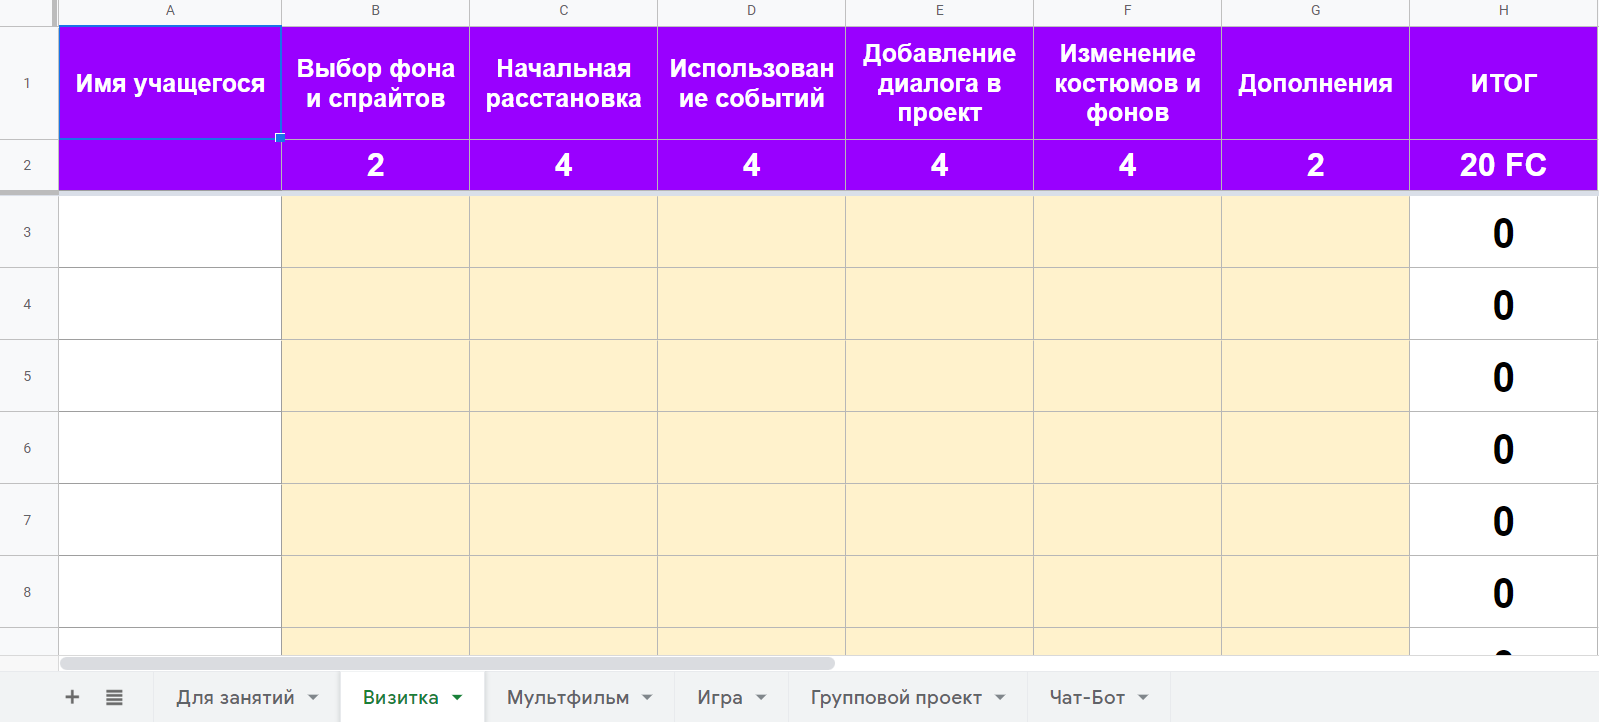
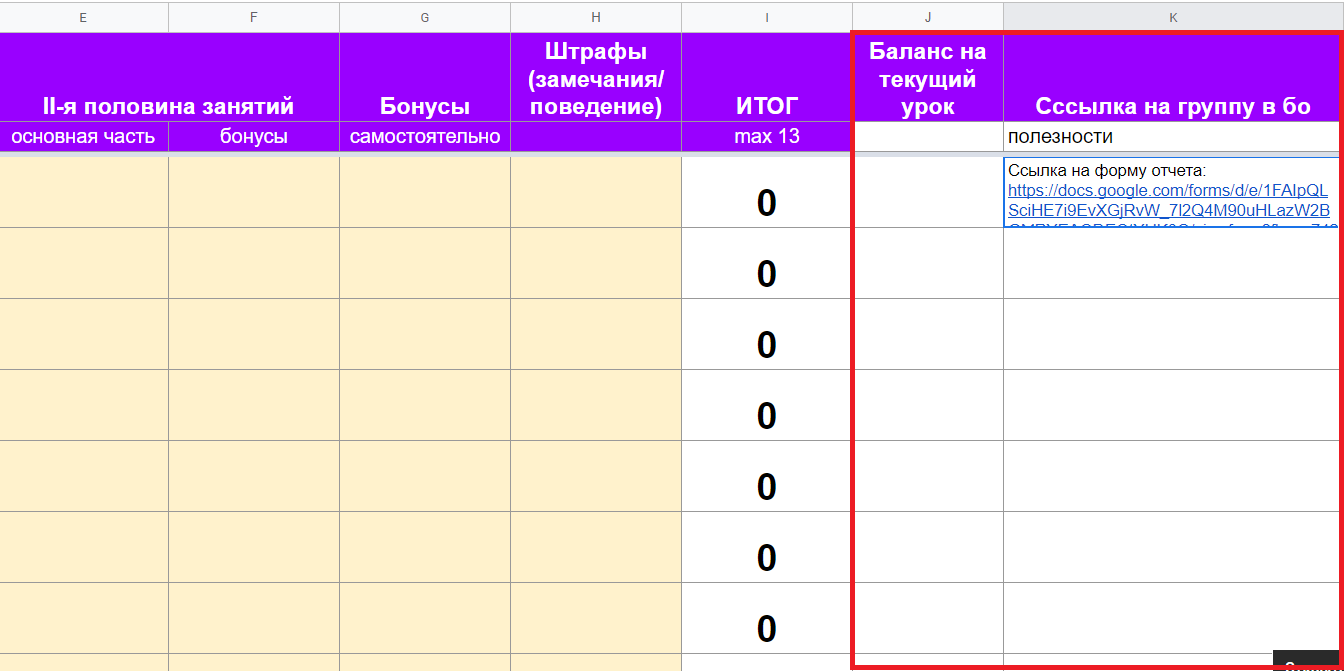
Add files via upload

diff --git a/instructions.html b/instructions.html
@@ -42,11 +42,18 @@
 	    <p class="content">
 	        <h3 class="container px-4">
 	        	<br>Таблицы рекомендуется периодически демонстрировать во время занятия, чтобы ученики видели свой прогресс, для большей мотивации выполнять задания. Не забывайте сразу после занятия начислять фанкоины на счет ученика в банке Алгоритмики (смотрите ниже инструкцию как работать с банком)
-	            <br><strong>Таблица для использования на каждом занятии.</strong> Максимальное число начислений - 13 фанкоинов. Вкладка в Таблице "Для занятий". Каждый пункт заполняется преподавателем на свое усмотрение при выполнении учеником задач на платформе. Подсчет проводится автоматически
+	            <br>1. <strong>Таблица для использования на каждом занятии.</strong> Максимальное число начислений - 13 фанкоинов. Вкладка в Таблице "Для занятий". Каждый пункт заполняется преподавателем на свое усмотрение при выполнении учеником задач на платформе. Подсчет проводится автоматически
 	            <br><img class="imgInstruction" src="img/Table.png">
 	            <br>
-	            <br><strong>Таблица для проектных работ.</strong> В каждом столбце есть пункты, которые должны быть в проекте. Преподаватель заполняет их в процессе проверки. Подсчет общей суммы за проект производится автоматически. Ученик может не выполнить некоторые пункты, но, их количество не должно превышать 2-х. Преподаватель на свое усмотрение может начислять лишь часть суммы за пункт, если ученик недовыполнил эту часть, хотя и начинал его
+	            <br>2. В таблице представлены дополнительные графы для полезных ссылок. Ссылка на форму отчета по обратной связи "Точки контроля_проекты учеников" уже вставлена в каждую таблицу. Так же вам вручную можно добавить ссылку на группу в бо и название группы в бо
 	            <br><img class="imgInstruction" src="img/Table2.png">
+	            <br>
+	            <br>3. <strong>Таблица для проектных работ.</strong> В каждом столбце есть пункты, которые должны быть в проекте. Преподаватель заполняет их в процессе проверки. Подсчет общей суммы за проект производится автоматически. Ученик может не выполнить некоторые пункты, но, их количество не должно превышать 2-х. Преподаватель на свое усмотрение может начислять лишь часть суммы за пункт, если ученик недовыполнил эту часть, хотя и начинал его
+	            <br><img class="imgInstruction" src="img/Table3.png">
+	            <br>
+	            <br>4. Так же предусмотрены графы по обратной связи и ссылкам по проектным работам в конце каждого модуля. После этого остается только копировать всю информацию с таблиц в форму отчета
+	            <br><img class="imgInstruction" src="img/Table4.png">
+	            <br>
 	        </h3>
 	    </p>
 	</details>
